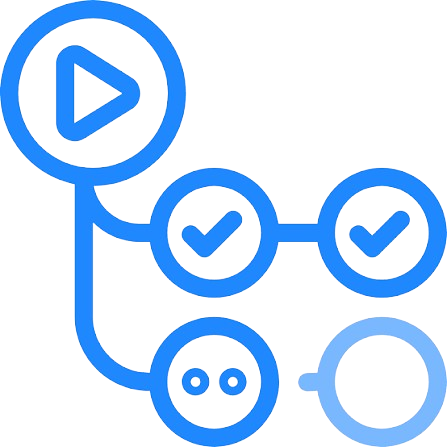
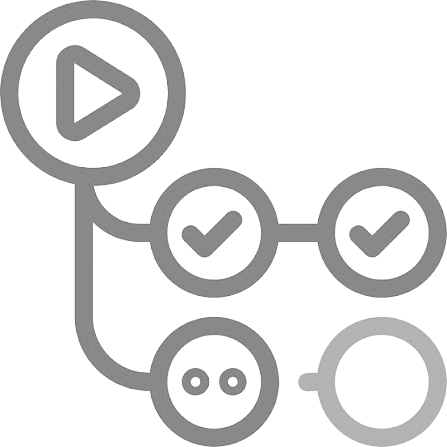
added a colophon

Changed region(s): [[0.0, 0.0, 1.0, 1.0], [0.6689, 0.698, 1.0, 1.0], [0.1163, 0.0872, 0.3199, 0.3199]]

diff --git a/static/style.css b/static/style.css
@@ -34,12 +34,16 @@
 }
 
 html {
+  min-height: 100%;
   background: var(--page-background);
 }
 
 body {
   margin: 0;
   padding: 0;
+  min-height: 100vh;
+  height: auto;
+  overflow-y: auto;
 
   font-family: "Latin Modern Roman", serif;
   font-size: 18px;

diff --git a/src/colophon.tex b/src/colophon.tex
@@ -12,24 +12,105 @@
 \BackTo{/}{back}
 
 \maketitle
-I was browsing some cool websites and vaguely remember a couple with something called a colophon, so thats what I'm copying today.
-From what I understand its a little summary of how the website was made as well as any other bits of useful information.
+I was browsing some cool websites and vaguely remember a couple with something called a colophon, so that's what I'm copying here.
+From what I understand it is a little summary of how the website was made as well as any other bits of useful information.
 
 \section{so what's up with this website?}
-This website's content is written in \LaTeX  syntax and then compiled with \href{https://ctan.org/pkg/lwarp}{lwarp} into HTML.
-This compilation happens in \inline{/media/ghactions.png}{ghactions} Github Actions from the websites repo and 
+This website's content is written in \LaTeX\; syntax and then compiled with \href{https://ctan.org/pkg/lwarp}{lwarp} into HTML.
+This compilation happens in \inline{/media/ghactions.png}{ghactions} Github Actions from the website's repo and 
 the generated static files are pushed to a Cloudflare Worker and hosted under this domain.
 
 
-\section{do you care privacy?}
+\section{privacy}
+This website follows the principles of the \href{https://www.legislation.gov.au/C2004A03712}{Australian Privacy Act 1988} 
+and \href{https://data.europa.eu/eli/reg/2016/679}{European Union General Data Protection Regulation}.
+
+\subsection{what data is collected? (and why!)}
+Some data about your usage of the site and its services may be collected for analytics (generally) or other purposes.
 
 
+Examples of data \textbf{not} collected;
+\begin{itemize}
+\item Your IP address (hashed or otherwise),
+\item Your cookies,
+\item Any other identifier or personal information that may identify you.
+\end{itemize}
 
+Examples of data collected;
+\begin{enumerate}
+\item By visiting this website,
 
+\begin{enumerate}
+\item The following data is collected upon loading any page or subpage,
+\begin{verbatim}
+{
+	"b": "[beacon id]",
+	"e": "load",
+	"u": "https://quinten.com.au/[PAGE]",
+	"r": "[referrer]",
+	"p": [bool],
+	"q": [bool],
+	"t": "[timezone]"
+}
+\end{verbatim}
 
+\item The follow data is collected upon unloading any page or subpage,
+\begin{verbatim}
+{
+	"b": "[beacon id]",
+	"e": "unload",
+	"m": [time (ms)]
+}
+\end{verbatim}
 
-1stly, tracking...
-quinten.com.au records site visits in a privacy-preserving manner, see 
+\end{enumerate}
+
+For both event types, \\
+\textbf{(b)} is a randomly generated identifier that links the load and unload event across your visit to a specific page, \\
+\textbf{(p)} represents if it is the first time you have visited this website, \\
+\textbf{(q)} represents if it is the first time you have visited this page.
+
+For more information see the documentation availble at \href{https://medama.io}{medama.io}. This page will be updated if additional event
+types are supported in the future or if there are any changes in the methodology of data collection.
+
+\item If you decide to contact me in any form or leave any content on the website where applicable,
+If you contact me, submit a form, or otherwise provide content through this website, I may collect 
+and retain the information you provide.
+
+This information will be used for the purpose of receiving, reviewing, displaying, responding to, 
+and maintaining a record of your communication where necessary.
+
+You may request deletion of this information at any time by emailing me at \href{mailto:q@quinten.com.au}{q@quinten.com.au} provided
+there is no legal basis or obligation by which I must retain your information. 
+
+\item If you decide to dial the phone number listed on the website
+Your phone number and the date, time, and duration of the call will be retained generally for a period of two years as is required 
+under the \href{https://www.legislation.gov.au/C2004A02124}{Australian Telecommunications (Interception and Access) Act 1979} by Crazytel, 
+my telecommunications provider.
+
+You may view \href{https://crazytel.com.au/legal/privacypolicy/}{Crazytel's privacy policy} and 
+the \href{https://www.legislation.gov.au/C2004A02124}{relevant legislation} to learn more.
+
+\end{enumerate}
+
+\subsection{how is data collected?}
+Data is collected via a tracking script embedded in each page.
+
+For more information see the documentation availble at \href{https://medama.io}{medama.io}.
+
+\subsection{how can i manage my data?}
+Generally, because your data is not linked to you or your personal information it is not possible to enact your access, 
+erasure or portability rights.
+
+If you have voluntarily or inadventantly shared any information that may identify you, you may request deletion at any time as outlined above.
+
+\subsection{any third parties?}
+There are a few third parties that may collect information about you outside of my control or influence, these include:
+\begin{itemize}
+\item Cloudflare Inc. (\href{https://www.cloudflare.com/policies/privacy/}{privacy policy})
+\item Website Carbon (subsidiary of Wholegrain Digital) (\href{https://www.websitecarbon.com/privacy-policy/}{privacy policy})
+\item tamaNOTchi.world (\href{https://tamanotchi.world/privacy/}{privacy policy})
+\end{itemize}
 
 \BackTo{/}{back}
 
